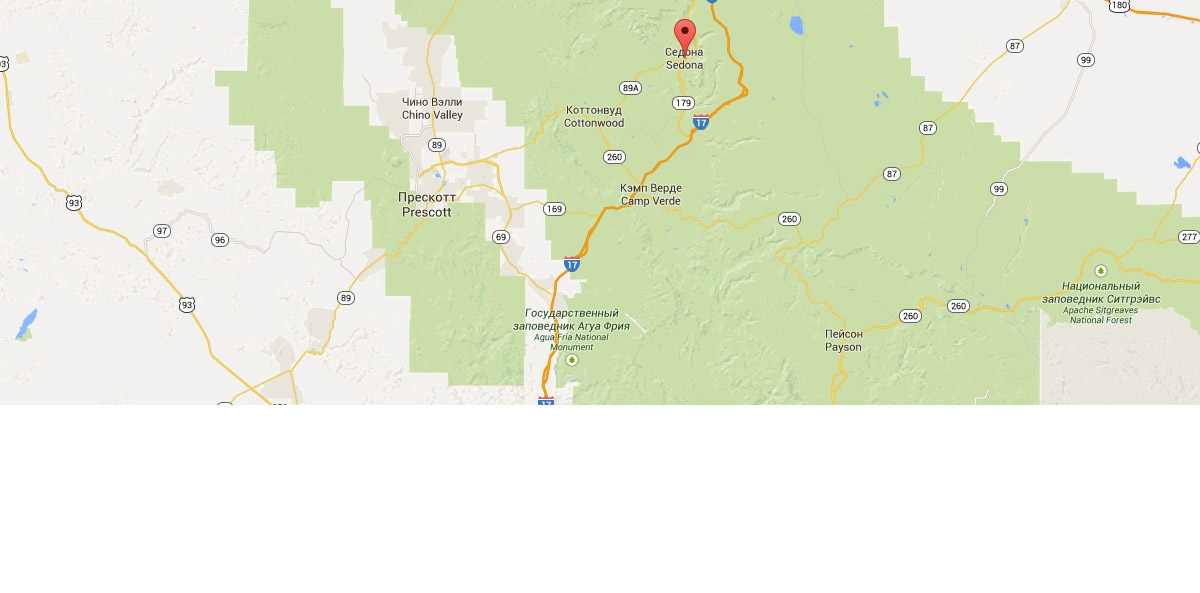
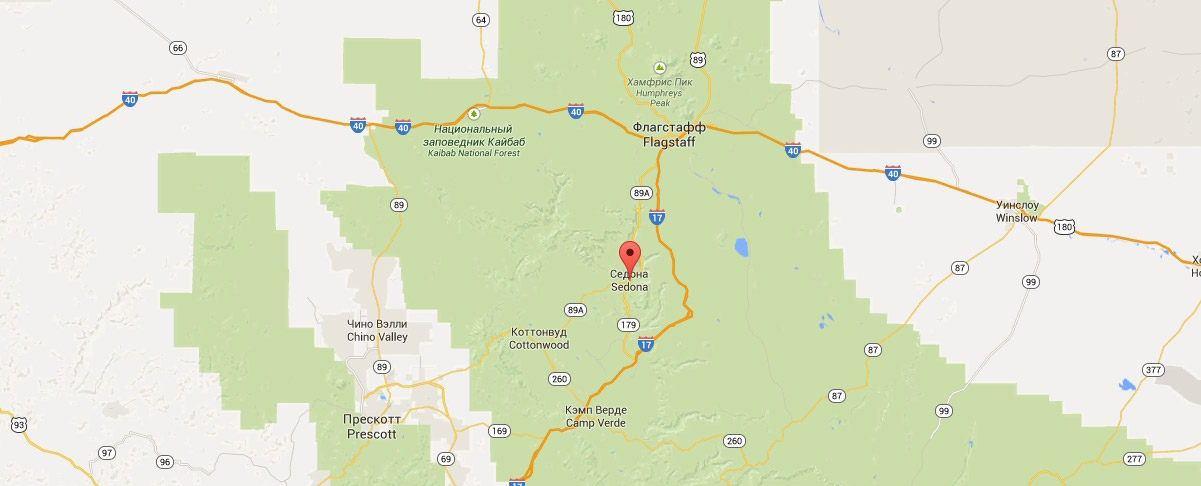
modal search

diff --git a/index.html b/index.html
@@ -97,36 +97,37 @@
                     в Седоне</p>
                             <button type="button" class="search-hotels">Поиск гостинницы в Седоне</button>
             </section>
-            <img src="img/map.jpg" alt="map">
+            <div class="map">
             <section class="modal modal-search">
                 <form action="action.php" class="search-form" method="POST">
-                    <p><label for="date-from">Дата заезда:</label>
-                        <input type="text" id="date-from" name="date-from" placeholder="24 апреля 2017"><img
-                            src="img/calendar.svg" alt="calendar"></p>
-                    <p><label for="date-to">Дата выезда:</label>
-                        <input type="text" id="date-to" name="date-to" placeholder="4 июля 2017"><img
-                            src="img/calendar.svg" alt="calendar"></p>
-                    <p>
+                    <p class="fields"><label for="date-from">Дата заезда:</label>
+                        <input type="text" id="date-from" name="date-from" placeholder="24 апреля 2017">
+                        <span class="fields-after"></span></p>
+                    <p class="fields"><label for="date-to">Дата выезда:</label>
+                        <input type="text" id="date-to" name="date-to" placeholder="4 июля 2017"><span class="fields-after"></span></p>
+                    <p class="search-wrapper">
                         <label for="adults">Взрослые:
-                            <select name="adults" id="adults" class="dropdown">
-                                <option value="1">1</option>
-                                <option value="2">2</option>
-                                <option value="3">3</option>
-                                <option value="4">4</option>
-                            </select>
+                            <div class="adult">
+                            <button type="button" class="btn-minus">-</button>
+                            <input type="text" name="adults" id="adults"
+                            value="2">
+                            <button type="button" class="btn-plus">+</button> 
+                        </div>
                         </label>
+                    </p>
+                    <p class="search-wrapper">
                         <label for="kids">Дети:
-                            <select name="kids" id="kids" class="dropdown">
-                                <option value="1">1</option>
-                                <option value="2">2</option>
-                                <option value="3">3</option>
-                                <option value="4">4</option>
-                            </select>
+                            <div class="kids">
+                                    <button type="button" class="btn-minus">-</button>
+                            <input type="text" name="kids">
+                            <button type="button" class="btn-plus">+</button> 
+                        </div>
                         </label>
                     </p>
                     <button type="submit" class="button">Найти</button>
                 </form>
             </section>
+        </div>
         </main>
         <footer class="main-footer">
             <div class="container">

diff --git a/css/style.css b/css/style.css
@@ -81,10 +81,6 @@ a {
     font-weight: 400;
 }
 
-.reasons {
-    margin-bottom: 50px;
-}
-
 .blue-reason {
     color:#fff;
     background-color: #81b3d2;
@@ -121,7 +117,7 @@ a {
 
 .booking {
     text-align: center; 
-    height:290px;
+    min-height:290px;
 }
 
 .interested {
@@ -167,6 +163,7 @@ font-weight: 700;
 width:458px;
 height: 58px;
 text-transform: uppercase;
+margin:55px 0;
 }
 
 .button:hover,
@@ -174,10 +171,10 @@ text-transform: uppercase;
     background-color:#669ec0;
 }
 
-.search-form p, .search-form input {
-    font-size: 14px;
-    line-height: 26px;
-    font-weight: 700;
+.map {
+    background: #cacaca url(../img/map.jpg) no-repeat;
+    min-height:474px;
+    position: relative;
 }
 
 .tag {
@@ -273,4 +270,72 @@ margin:15px;
     display:flex;
     flex-direction: column;
    align-items:center;
+}
+
+.modal {
+    position: relative;
+}
+
+.modal-search {
+    position: absolute;
+    left:316px;
+    width:568px;
+    height:390px;
+    box-sizing: border-box;
+    padding:55px;
+
+    text-align: center;
+    font-size: 14px;
+    line-height: 26px;
+    font-weight: 700;
+
+    background-color: #fff;
+}
+
+.fields {
+    position: relative;
+    margin-bottom: 30px;
+    text-align:right;
+}
+
+.modal-search label {
+    line-height: 38px;
+    float:left;
+}
+
+.search-form input {
+    padding:6px 0;
+    box-sizing: border-box;
+    background-color: #f2f2f2;    
+    line-height: 26px;
+    border:0;
+   font-weight: 700;
+   text-transform: uppercase;
+}
+
+.search-form input[name="date-to"],
+.search-form input[name="date-from"] {
+    padding-left:12px;
+    width:345px;
+}
+
+.fields-after {
+    position: absolute;
+    top:9px;
+    right:10px;
+    opacity:0.3;
+    width:21px;
+    height:22px;
+    background-color:transparent;
+    background-image: url(../img/calendar.svg);
+}
+
+.fields-after:hover {
+    opacity:1;
+}
+
+.search-wrapper {
+    float:left;
+    box-sizing: border-box;
+    width: 50%;
 }
